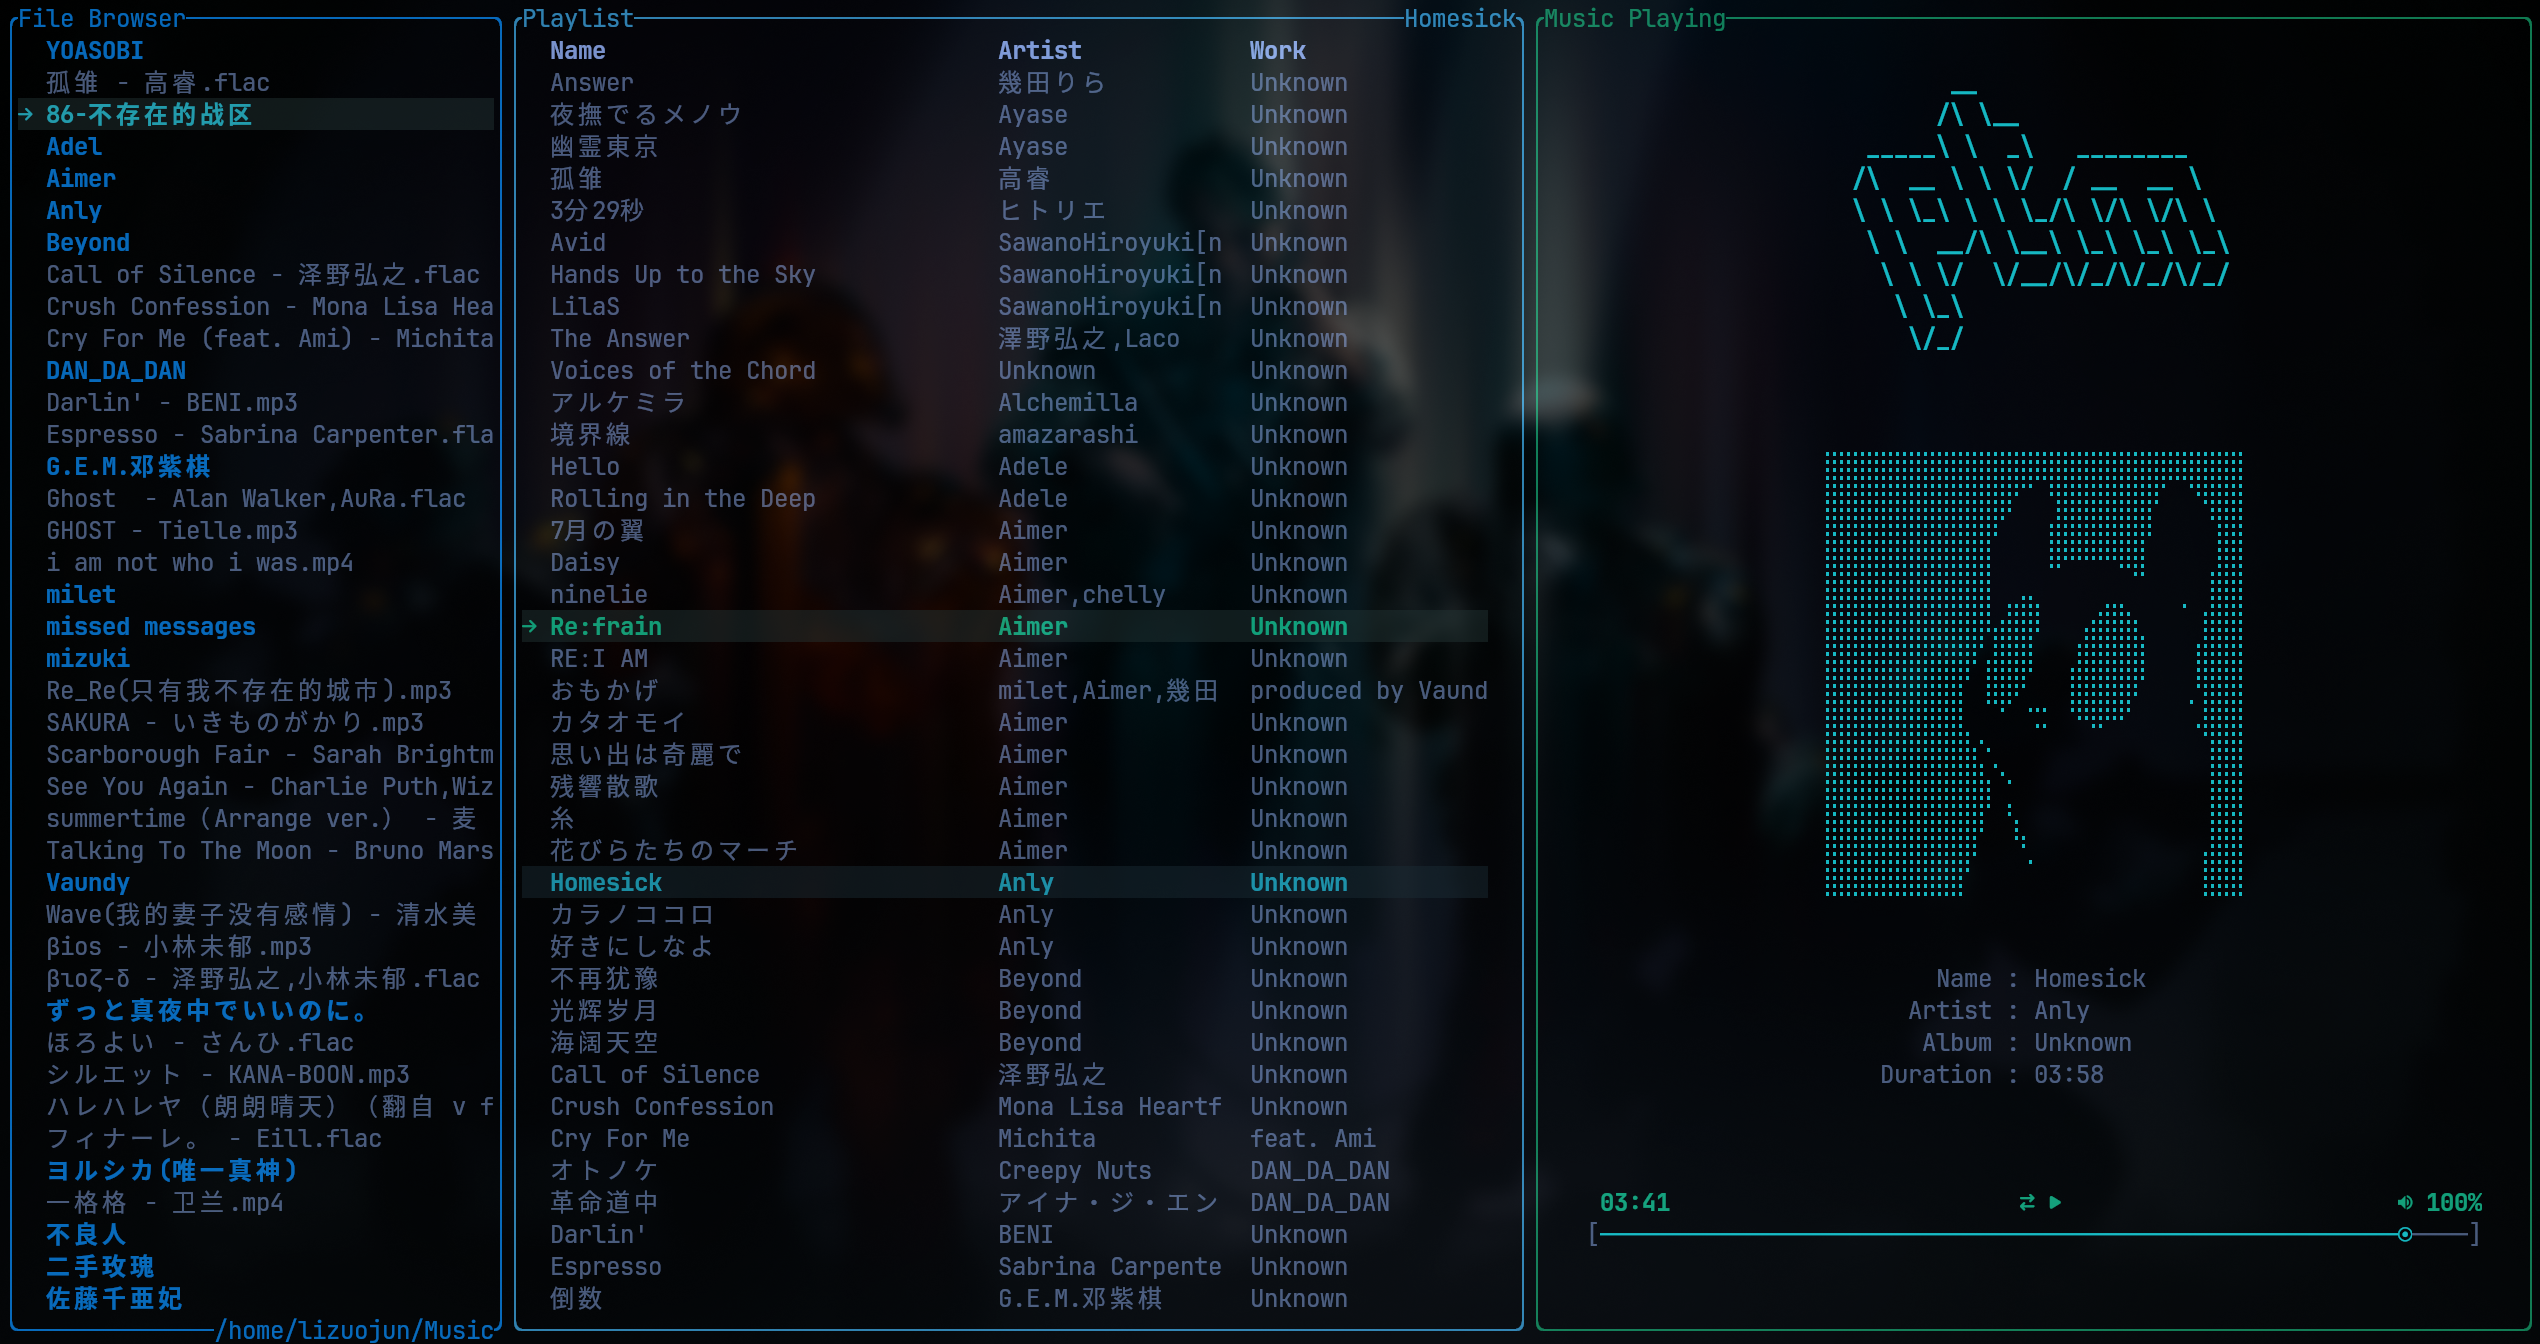
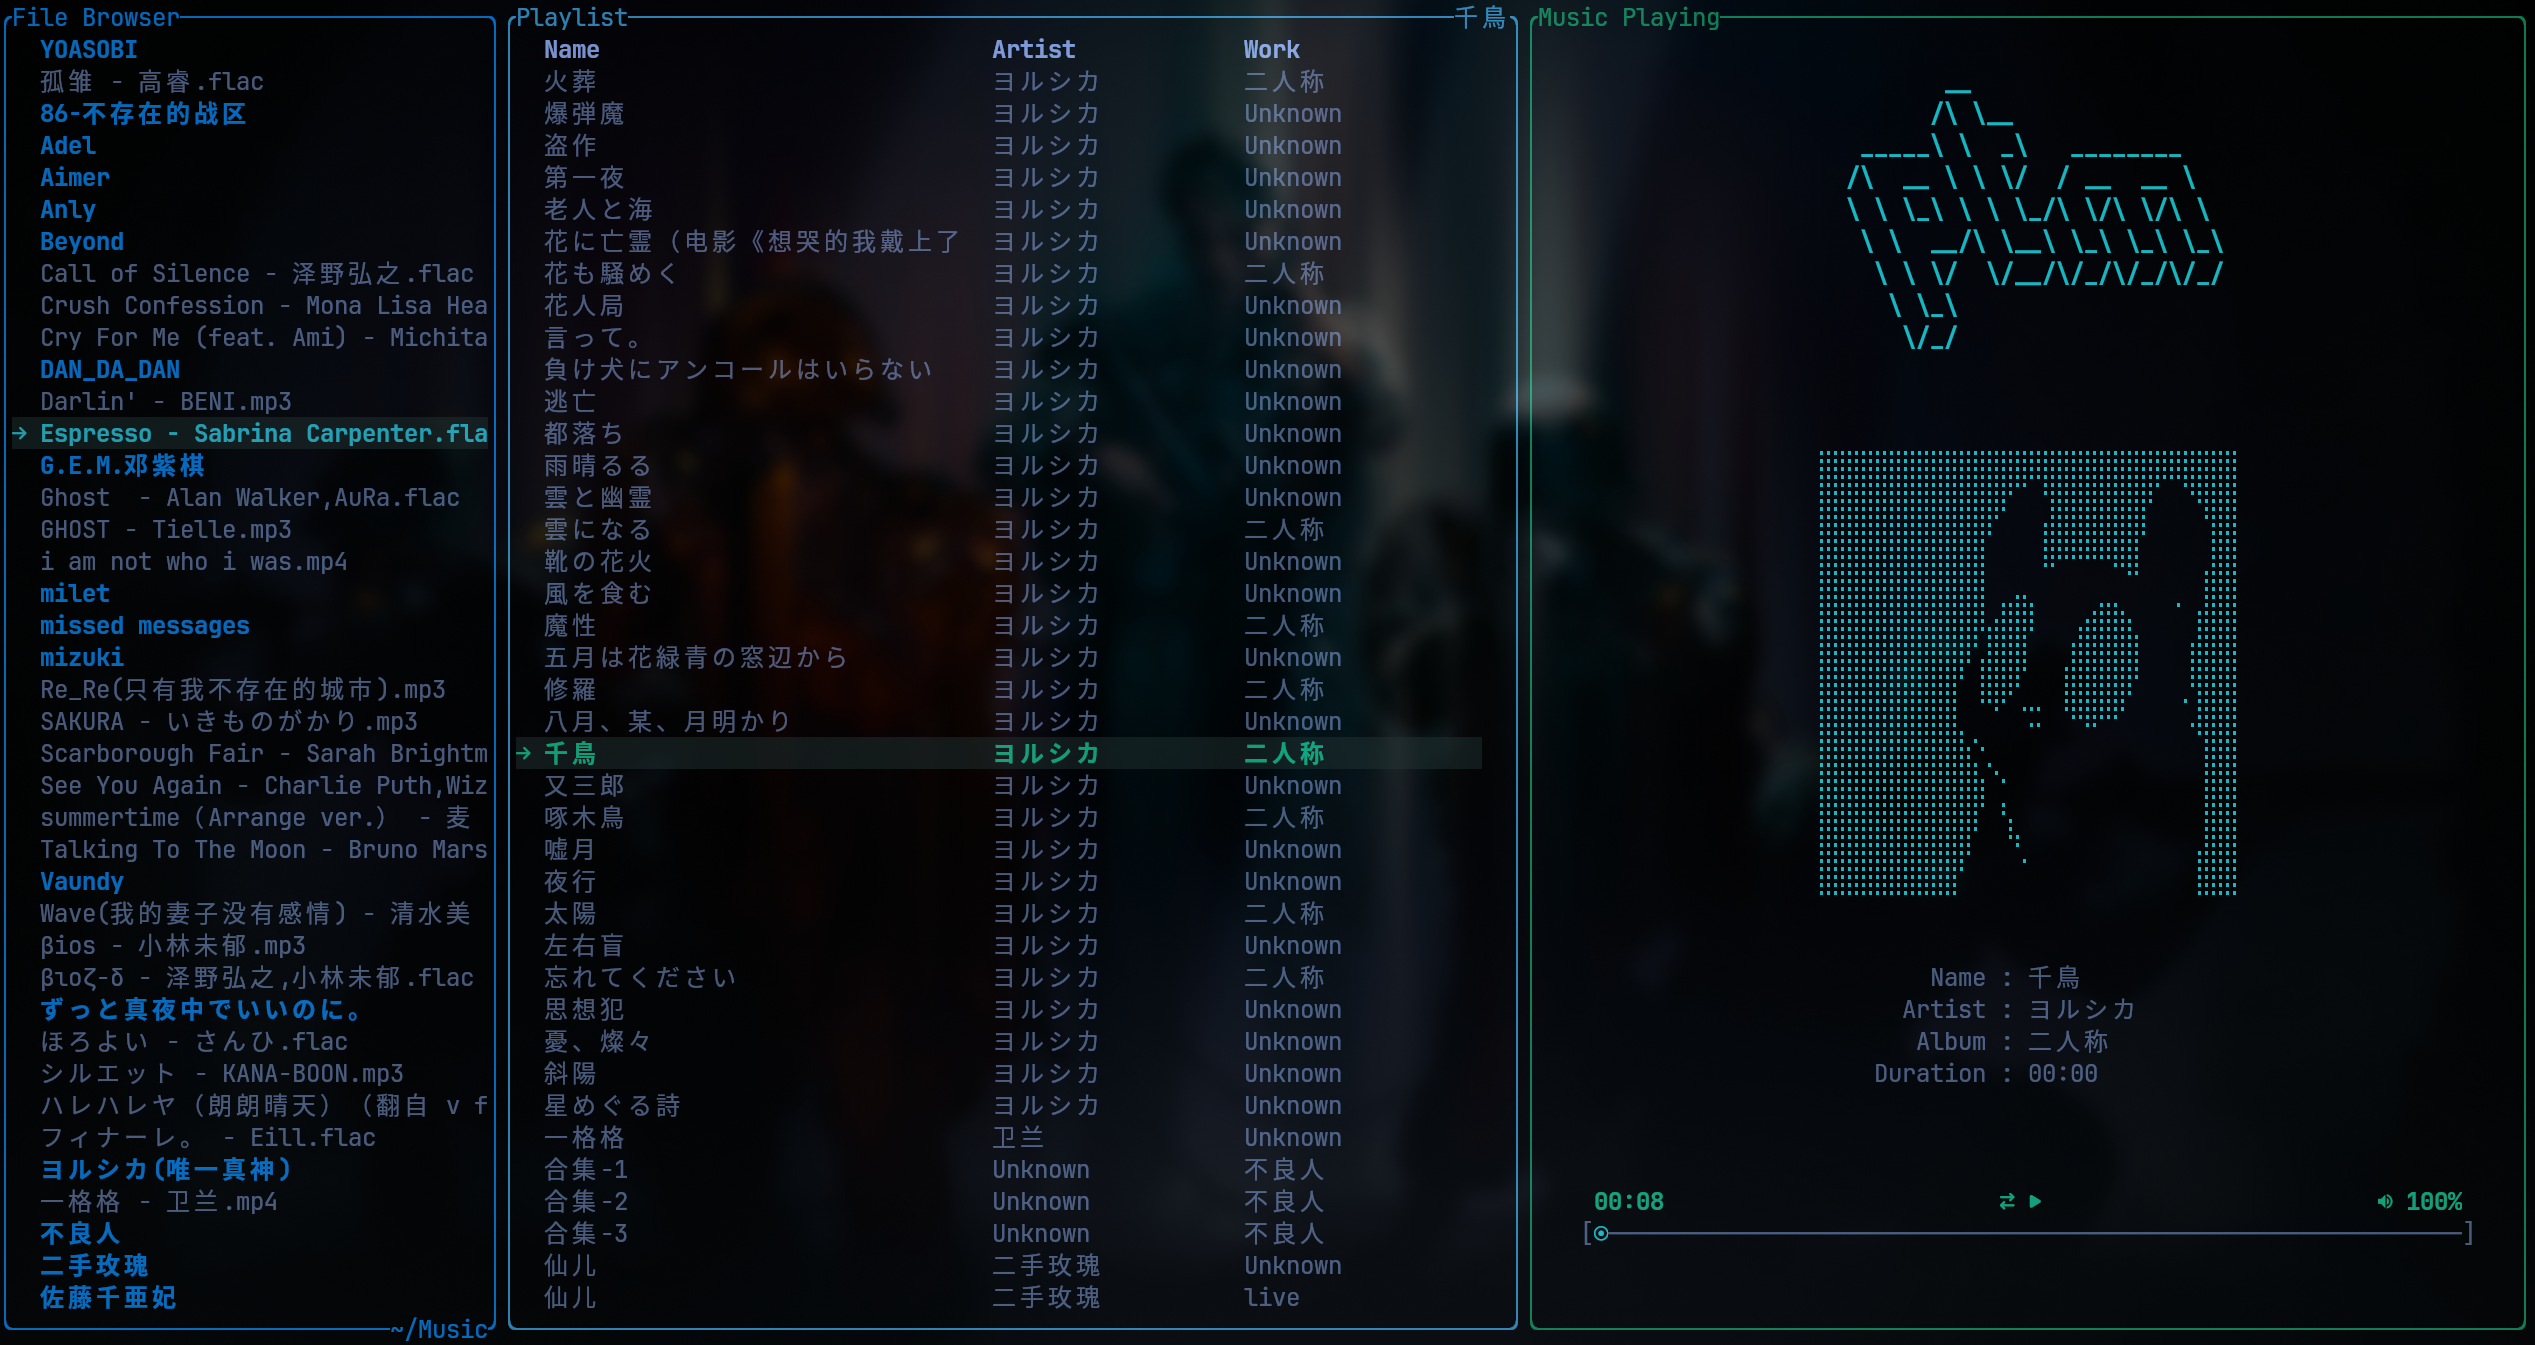
bug: update playlist_scrollbar_status when setting playlist

diff --git a/src/ui/components/music_info_drawer.rs b/src/ui/components/music_info_drawer.rs
@@ -93,16 +93,16 @@ impl MusicInfoDrawer {
         let chunks = Layout::default()
             .direction(Direction::Horizontal)
             .constraints([
-                Constraint::Percentage((0.05 * 100.0) as u16),
+                Constraint::Percentage((0.04 * 100.0) as u16),
                 Constraint::Ratio(1, 3),
                 Constraint::Ratio(1, 3),
                 Constraint::Ratio(1, 3),
-                Constraint::Percentage((0.05 * 100.0) as u16),
+                Constraint::Percentage((0.04 * 100.0) as u16),
             ])
             .split(area);
 
         frame.render_widget(
-            Line::from(utils::format_duration(app.get_current_position()))
+            Line::from(format!(" {}", utils::format_duration(app.get_current_position())))
                 .left_aligned()
                 .style(app.theme.music_info_theme.play_status_style), 
             chunks[1]
@@ -116,7 +116,7 @@ impl MusicInfoDrawer {
         );
 
         frame.render_widget(
-            Line::from(format!("{} {}%", app.theme.music_info_theme.play_status_volume_symbol, app.get_volume()))
+            Line::from(format!("{} {}% ", app.theme.music_info_theme.play_status_volume_symbol, app.get_volume()))
                 .right_aligned()
                 .style(app.theme.music_info_theme.play_status_style), 
             chunks[3]
@@ -131,6 +131,15 @@ impl MusicInfoDrawer {
             app.get_current_position() / app.current_song_info.duration
         };
 
+        let chunks = Layout::default()
+            .direction(Direction::Horizontal)
+            .constraints([
+                Constraint::Percentage((0.04 * 100.0) as u16),
+                Constraint::Fill(1),
+                Constraint::Percentage((0.04 * 100.0) as u16),
+            ])
+            .split(area);
+
         frame.render_stateful_widget(
             ProgressBar::new(
                 app.theme.music_info_theme.progress_bar_filled_symbol,
@@ -140,10 +149,9 @@ impl MusicInfoDrawer {
                 app.theme.music_info_theme.progress_bar_end_symbol,
                 app.theme.music_info_theme.progress_bar_filled_style,
                 app.theme.music_info_theme.progress_bar_unfilled_style,
-                app.theme.music_info_theme.progress_bar_head_style,
-                0.05
+                app.theme.music_info_theme.progress_bar_head_style
             ),
-            area, 
+            chunks[1], 
             &mut state
         );
     }
@@ -157,8 +165,7 @@ struct ProgressBar {
     end_symbol: &'static str,
     filled_style: Style,
     unfilled_style: Style,
-    head_style: Style,
-    one_side_blank_ratio: f64
+    head_style: Style
 }
 
 impl ProgressBar {
@@ -170,8 +177,7 @@ impl ProgressBar {
         end_symbol: &'static str,
         filled_style: Style,
         unfilled_style: Style,
-        head_style: Style,
-        one_side_blank_ratio: f64
+        head_style: Style
     ) -> Self {
         Self {
             filled_symbol,
@@ -181,8 +187,7 @@ impl ProgressBar {
             end_symbol,
             filled_style,
             unfilled_style,
-            head_style,
-            one_side_blank_ratio
+            head_style
         }
     }
 }
@@ -195,9 +200,8 @@ impl StatefulWidget for ProgressBar {
             return;
         }
 
-        let one_side_blank_length = (area.width as f64 * self.one_side_blank_ratio).floor() as u16;
-        let start_pos = area.left()  + one_side_blank_length;
-        let end_pos   = area.right() - one_side_blank_length - 1;
+        let start_pos = area.left();
+        let end_pos   = area.right() - 1;
 
         if end_pos < start_pos + 2 {
             return;

diff --git a/src/app/app.rs b/src/app/app.rs
@@ -370,7 +370,7 @@ impl App {
     fn set_pwd_as_playlist(&mut self) {
         self.playlist = Playlist::from_paths(FileManager::get_file_path_list_static(self.current_path.clone()));
         self.playlist_table_state.select(Some(0));
-        self.playlist_scroll_state = self.playlist_scroll_state.position(0);
+        self.playlist_scroll_state = self.playlist_scroll_state.content_length(self.playlist.items.len() * self.theme.playlist_theme.item_height);
         self.current_playing_song_index = None;
         self.need_redraw = true;
     }

diff --git a/README.md b/README.md
@@ -39,6 +39,7 @@ $ ./target/release/tui-music-player
   - `<space>` 暂停/播放
   - `<Tab>` 顺序/随机播放
   - `u` `i` 调节音量
+  - `;` 播放歌曲
 
 #### BUG
 
@@ -48,6 +49,8 @@ $ ./target/release/tui-music-player
   需要开新的线程
   通过 `cargo build -r` 生成的二进制文件的 cpu 利用率变为了 0.0
 - [ ] mp4 文件无法解析出帧数
+- [ ] 在 home 目录打开，会很卡，我猜测是因为文件数目过多，导致在生成 play list 的时候需要耗费很多时间
+- [x] 在切换 play list 之后，似乎 scroll bar 的长度没有更新
 
 #### TODO
 
